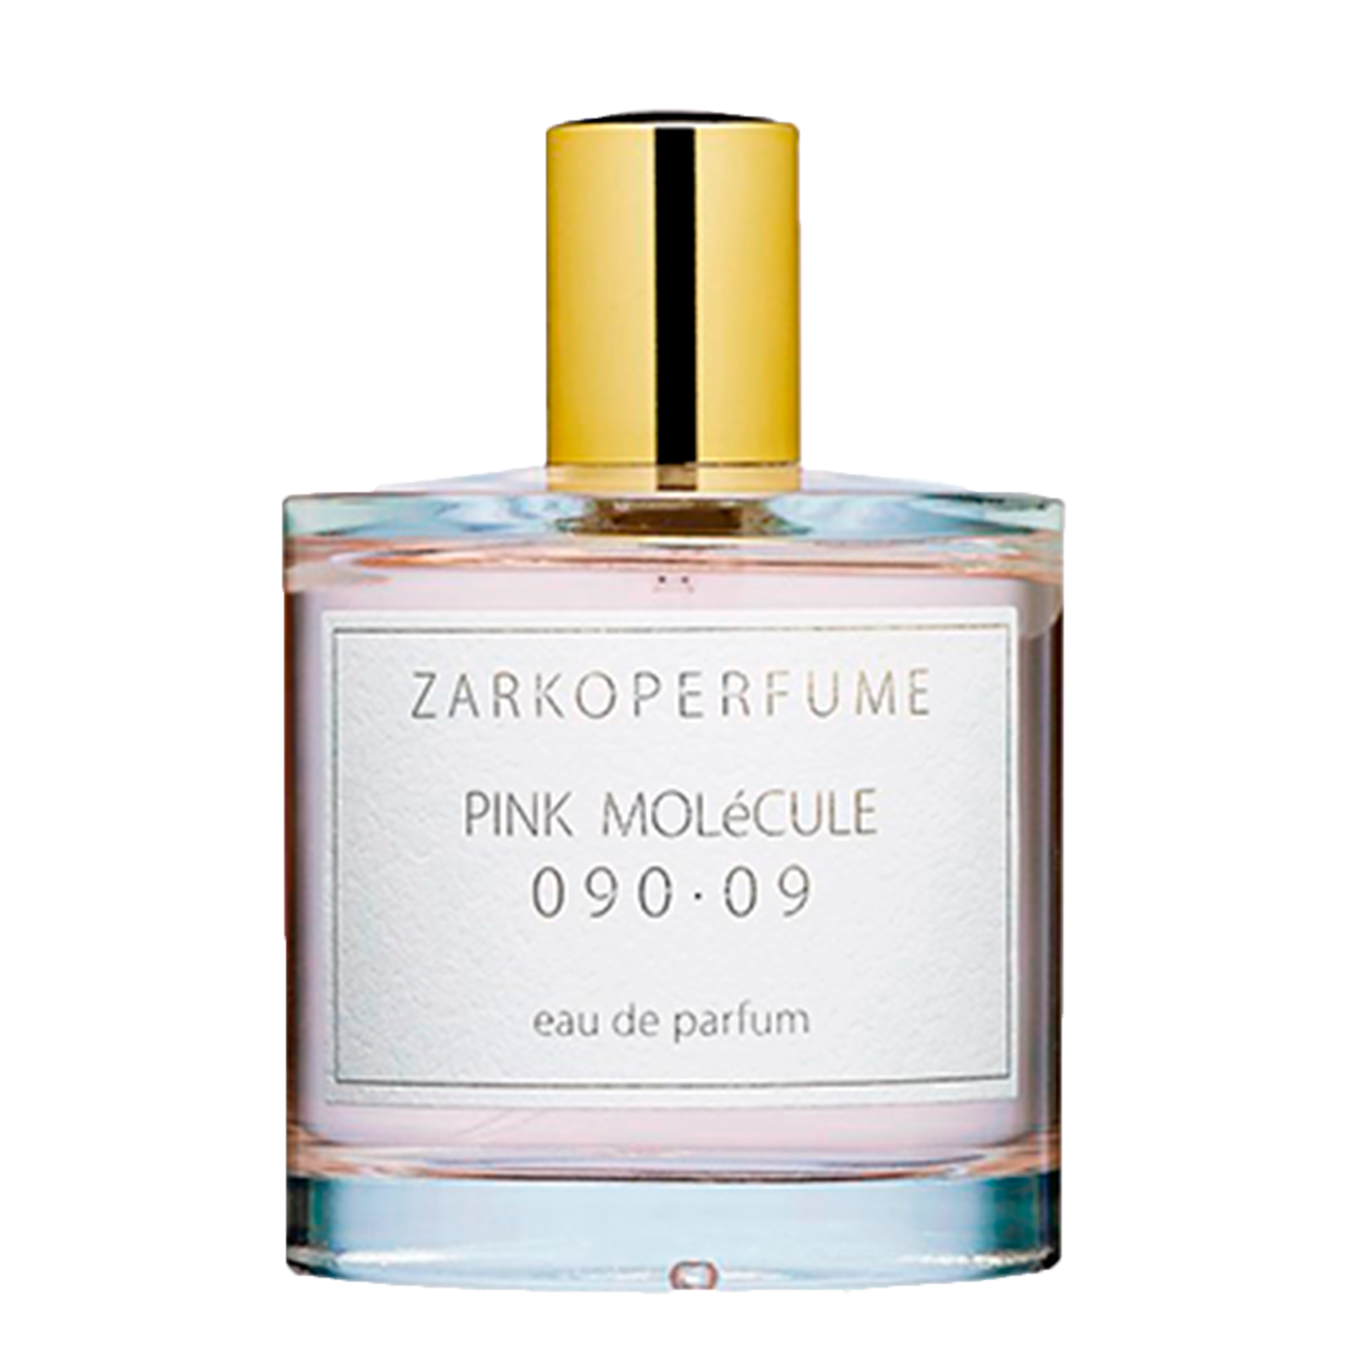
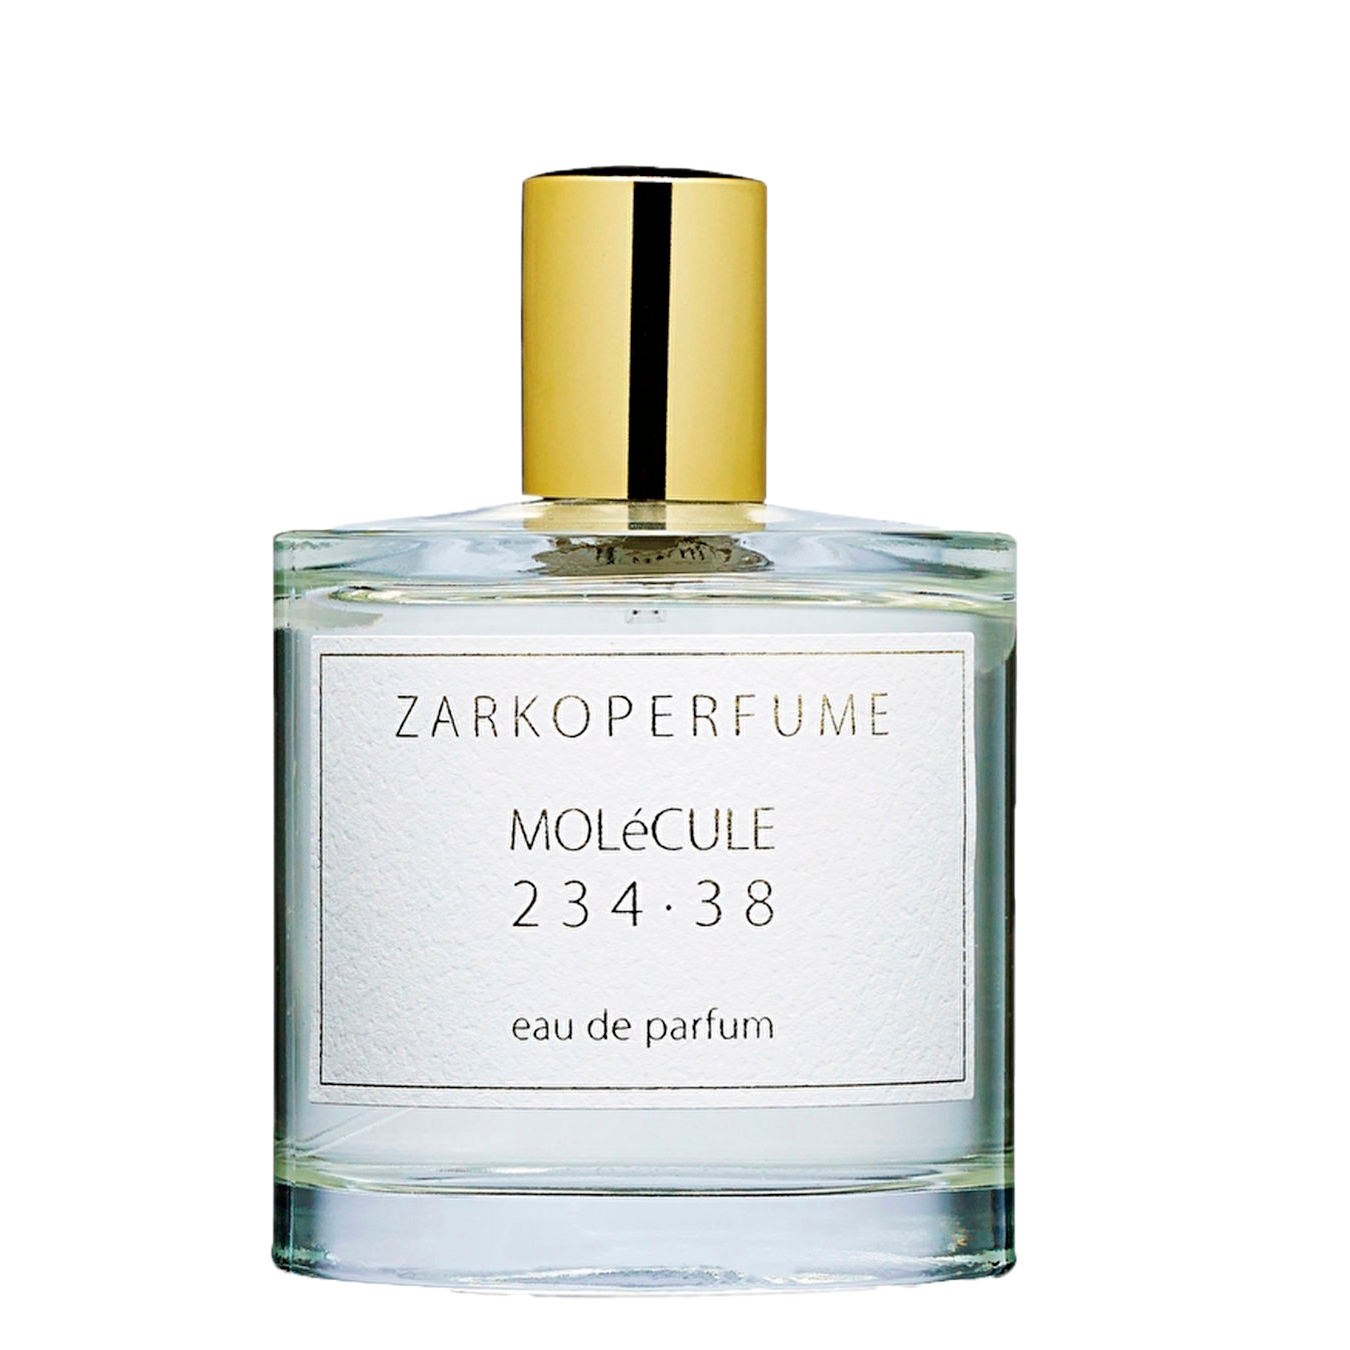
Startskærm virker som den skal

Changed region(s): [[0.1867, 0.0622, 0.8089, 0.9644], [0.3422, 0.9333, 0.6222, 0.9644]]

diff --git a/script.js b/script.js
@@ -3,6 +3,9 @@ window.addEventListener("load", sidenVises);
 function sidenVises() {
     console.log("sidenVises");
 
+    document.querySelector("#bluecloud_container").classList.remove("move");
+    document.querySelector("#bluecloud_container").removeEventListener("animationend", sidenVises);
+
     if (document.getElementById("parfume")) {
         document.querySelector("#parfume").classList.add("move");
 
@@ -14,9 +17,13 @@ function sidenVises() {
 function imageAppear() {
     console.log("imageAppear");
 
-    document.querySelector("#parfume").classList.remove("move");
+    //    document.querySelector("#parfume").classList.remove("move");
+
     document.querySelector("#bluecloud_container").classList.add("move");
     document.querySelector("#bluecloud_container").addEventListener("animationend", sidenVises);
+    document.querySelector("#parfume").classList.remove("move");
+
+    document.querySelector("#parfume").removeEventListener("animationend", imageAppear);
 }
 
 function toggleMenu() {

diff --git a/style.css b/style.css
@@ -553,20 +553,20 @@ header nav a:link {
 
 #bluecloud_container {
     position: absolute;
-    width: 25vw;
-    height: 22vw;
-    top: 32vw;
-    left: 42vw;
-    background-image: url(showcase_image/pinkmolecule.png);
-    z-index: 2;
+    width: 24vw;
+    height: 21vw;
+    background-image: url(showcase_image/parfume2.png);
+    z-index: 4;
+    left: -25vw;
 }
 
 #parfume {
     position: absolute;
-    width: 25vw;
-    height: 22vw;
+    width: 26vw;
+    height: 23vw;
     background-image: url(showcase_image/molecule.png);
     z-index: 4;
+    left: -25vw;
 }
 
 .move {
@@ -579,7 +579,7 @@ header nav a:link {
 
 @keyframes move_kf {
     0% {
-        left: -25vw;
+        /*        left: -25vw;*/
     }
 
     100% {
